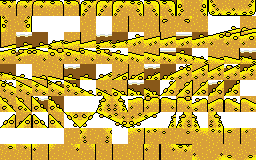
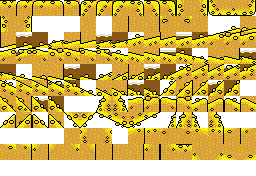
Agregado el inicio del nivel de caverna.

diff --git a/src/utilidades/ImagenURL.java b/src/utilidades/ImagenURL.java
@@ -7,9 +7,11 @@ public enum ImagenURL {
     PEACH_SPRITESHEET("graficos/players/peachSprites.png"),
     TOAD_SPRITESHEET("graficos/players/toadSprites.png"),
     FONDO("graficos/fondo/fondo.png"),
-    NIVEL_CAVERNA("graficos/niveles/caverna.png"),
+    FONDO_CAVERNA("graficos/fondo/fondoCaverna.png"),
+    NIVEL_CAVERNA("graficos/niveles/cavernaGravilla.png"),
     NIVEL_SUPERFICIE("graficos/niveles/superficie.png"),
-    INFO_NIVEL_UNO("niveles/level_one_data.png");
+    INFO_NIVEL_UNO("niveles/level_one_data.png"),
+    INFO_NIVEL_CAVERNA("niveles/level_caverna_data.png");
 
     final String spriteURL;
 

diff --git a/src/utilidades/Archivos.java b/src/utilidades/Archivos.java
@@ -30,7 +30,7 @@ public class Archivos {
     // El valor del color rojo de cada pixel del mapa de bits representa un bloque del nivel
     public static int[][] informacionDelNivel() {
         int[][] infoNivel = new int[Juego.UNIDADES_ALTURA][Juego.UNIDADES_ANCHO];
-        BufferedImage img = cargarImagen(ImagenURL.INFO_NIVEL_UNO);
+        BufferedImage img = cargarImagen(ImagenURL.INFO_NIVEL_CAVERNA);
 
         for (int j = 0; j < img.getHeight(); ++j)
             for (int i = 0; i < img.getWidth(); ++i){

diff --git a/src/main/Juego.java b/src/main/Juego.java
@@ -32,7 +32,7 @@ public class Juego implements Runnable {
 
     public Juego() {
         manejaNiveles = new ManejaNiveles(this);
-        jugador = new Jugador(100, 100, ANCHURA_JUGADOR, ALTURA_JUGADOR, ImagenURL.TOAD_SPRITESHEET);
+        jugador = new Jugador(10, 264, ANCHURA_JUGADOR, ALTURA_JUGADOR, ImagenURL.TOAD_SPRITESHEET);
         jugador.cargarInfoNivel(manejaNiveles.getNivelActual().getInfoNivel());
 
         panel = new Panel(this);

diff --git a/src/niveles/ManejaNiveles.java b/src/niveles/ManejaNiveles.java
@@ -23,7 +23,7 @@ public class ManejaNiveles {
     }
 
     public void cargarSpritesNivel() {
-        BufferedImage img = cargarImagen(ImagenURL.NIVEL_SUPERFICIE);
+        BufferedImage img = cargarImagen(ImagenURL.NIVEL_CAVERNA);
         nivelSprites = new BufferedImage[16*11];
         for (int j = 0; j < 11; j++) {
             for (int i = 0; i < 16; i++) {

diff --git a/src/main/Panel.java b/src/main/Panel.java
@@ -42,7 +42,7 @@ public class Panel extends JPanel {
     }
 
     private void cargarImagenes() {
-        fondo = cargarImagen(ImagenURL.FONDO);
+        fondo = cargarImagen(ImagenURL.FONDO_CAVERNA);
     }
 
     // Método que se encarga de darle un tamaño al panel
